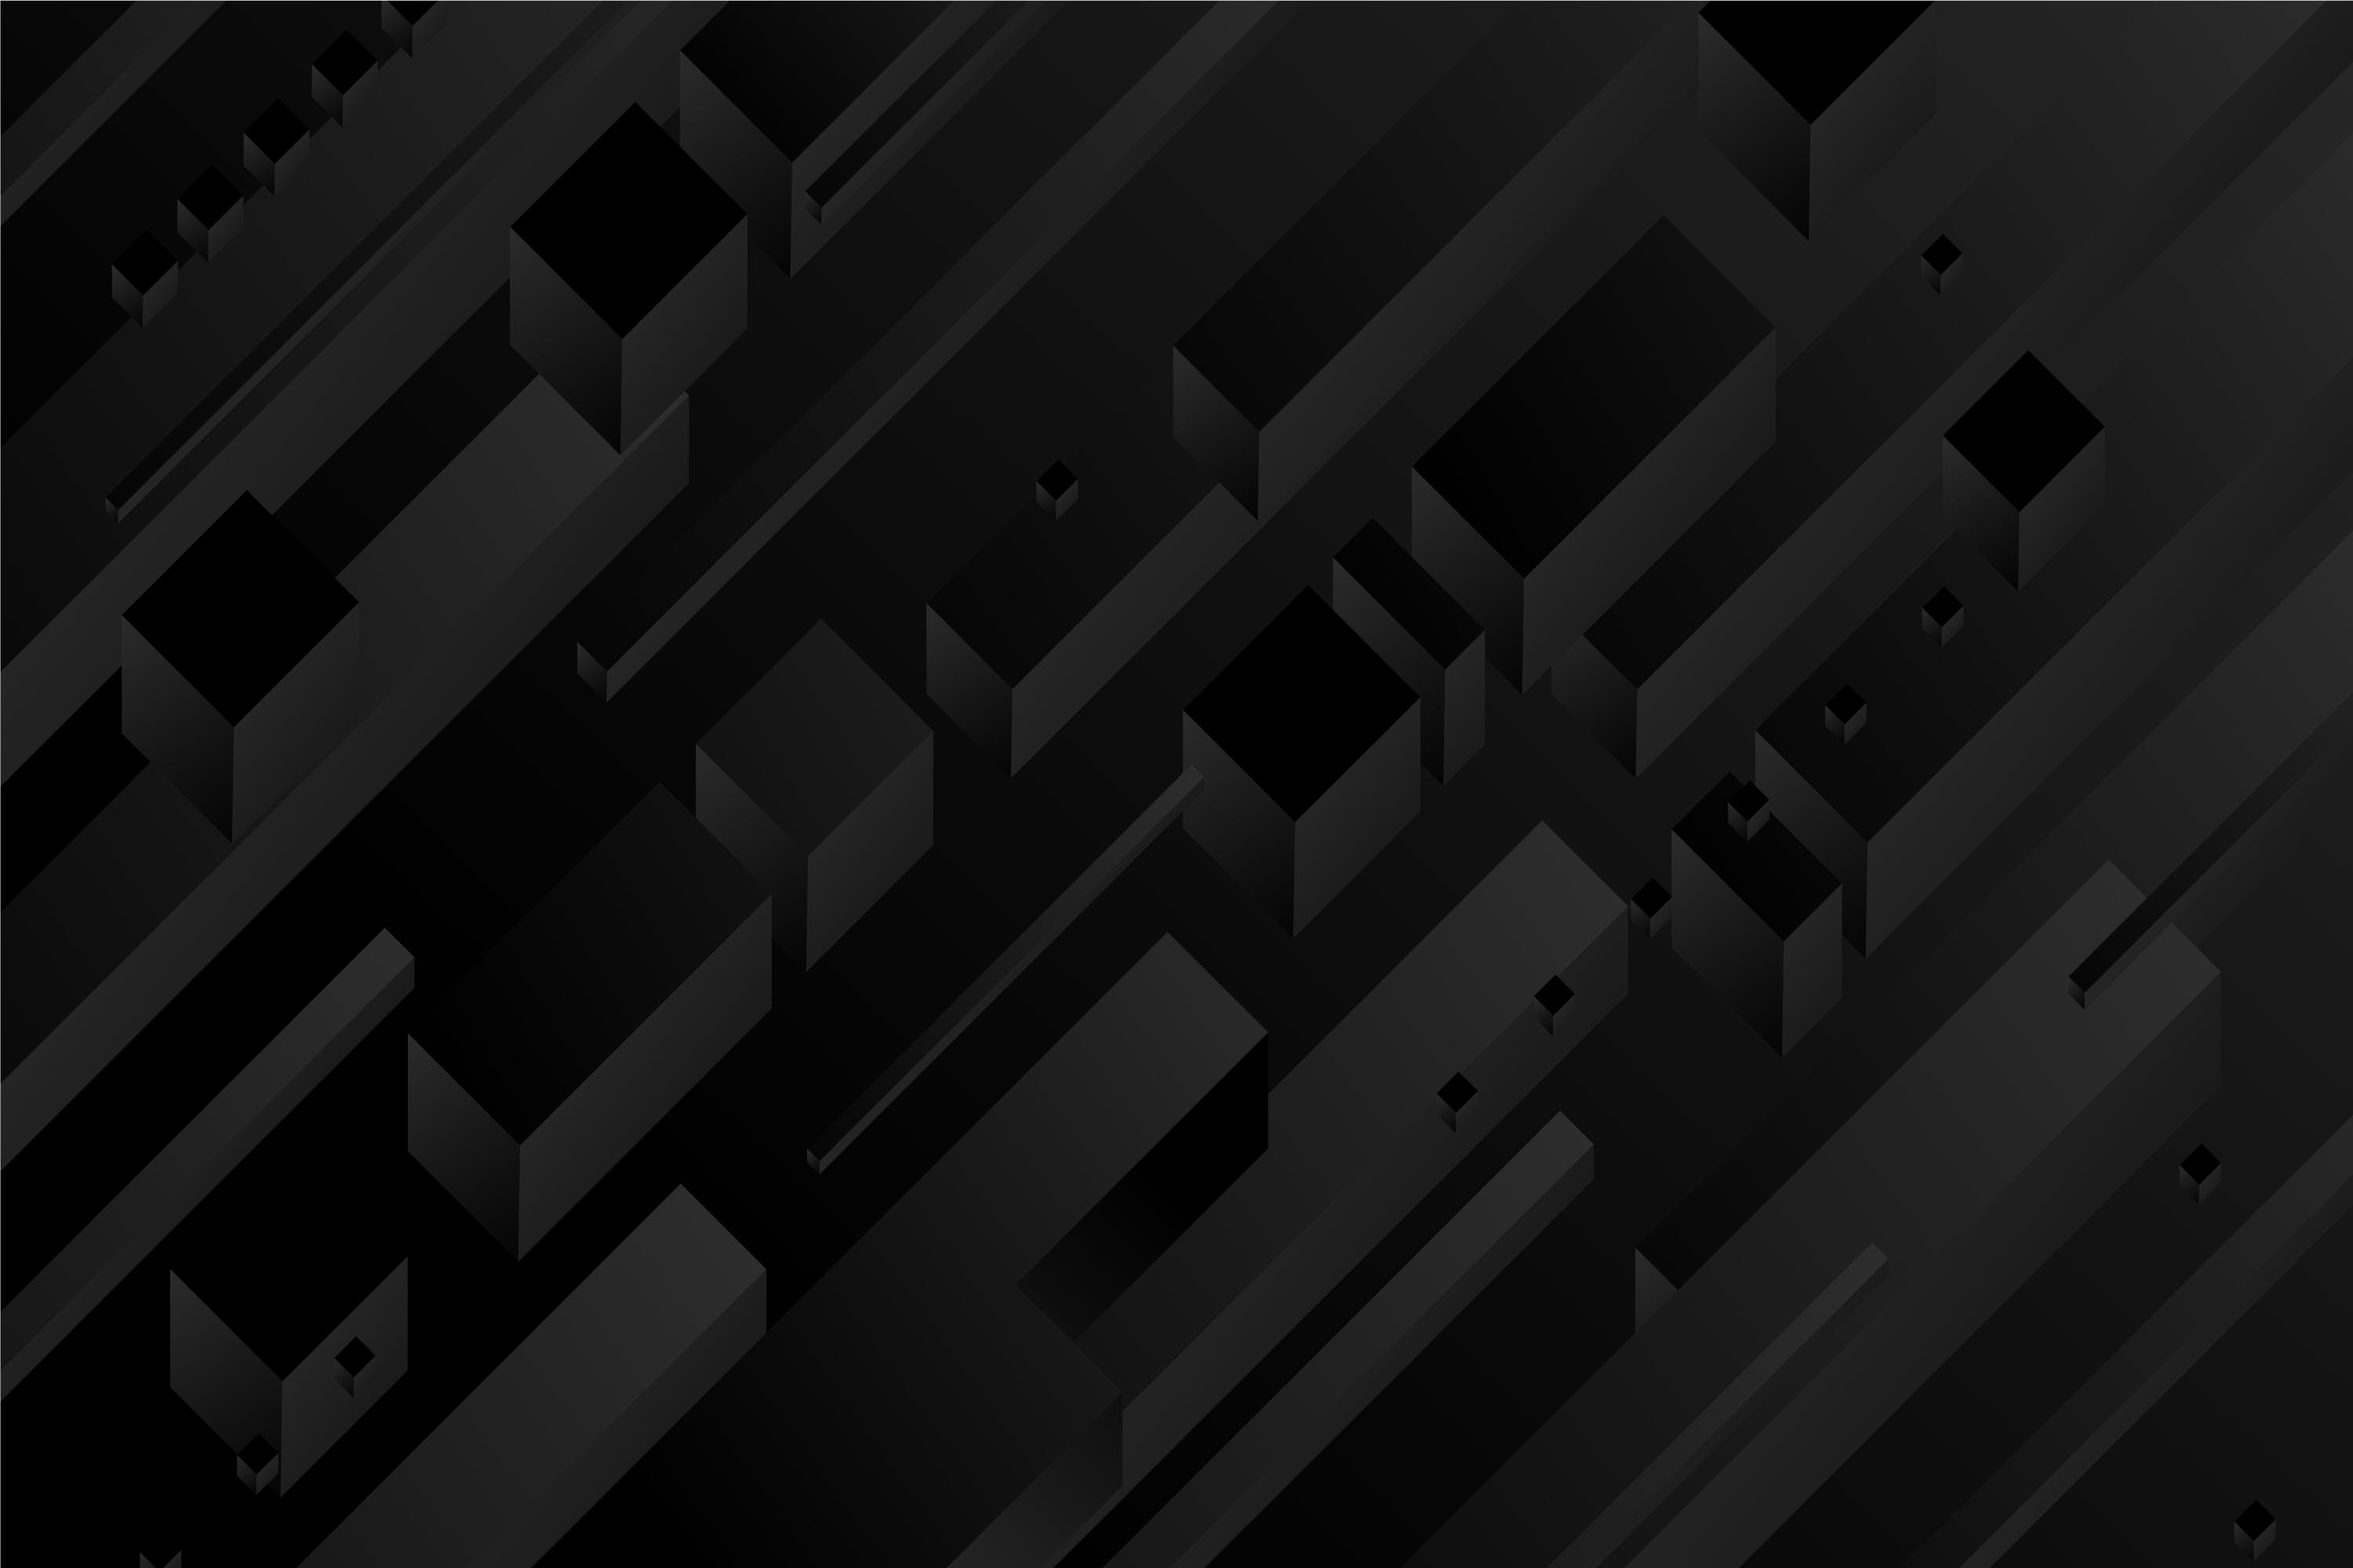
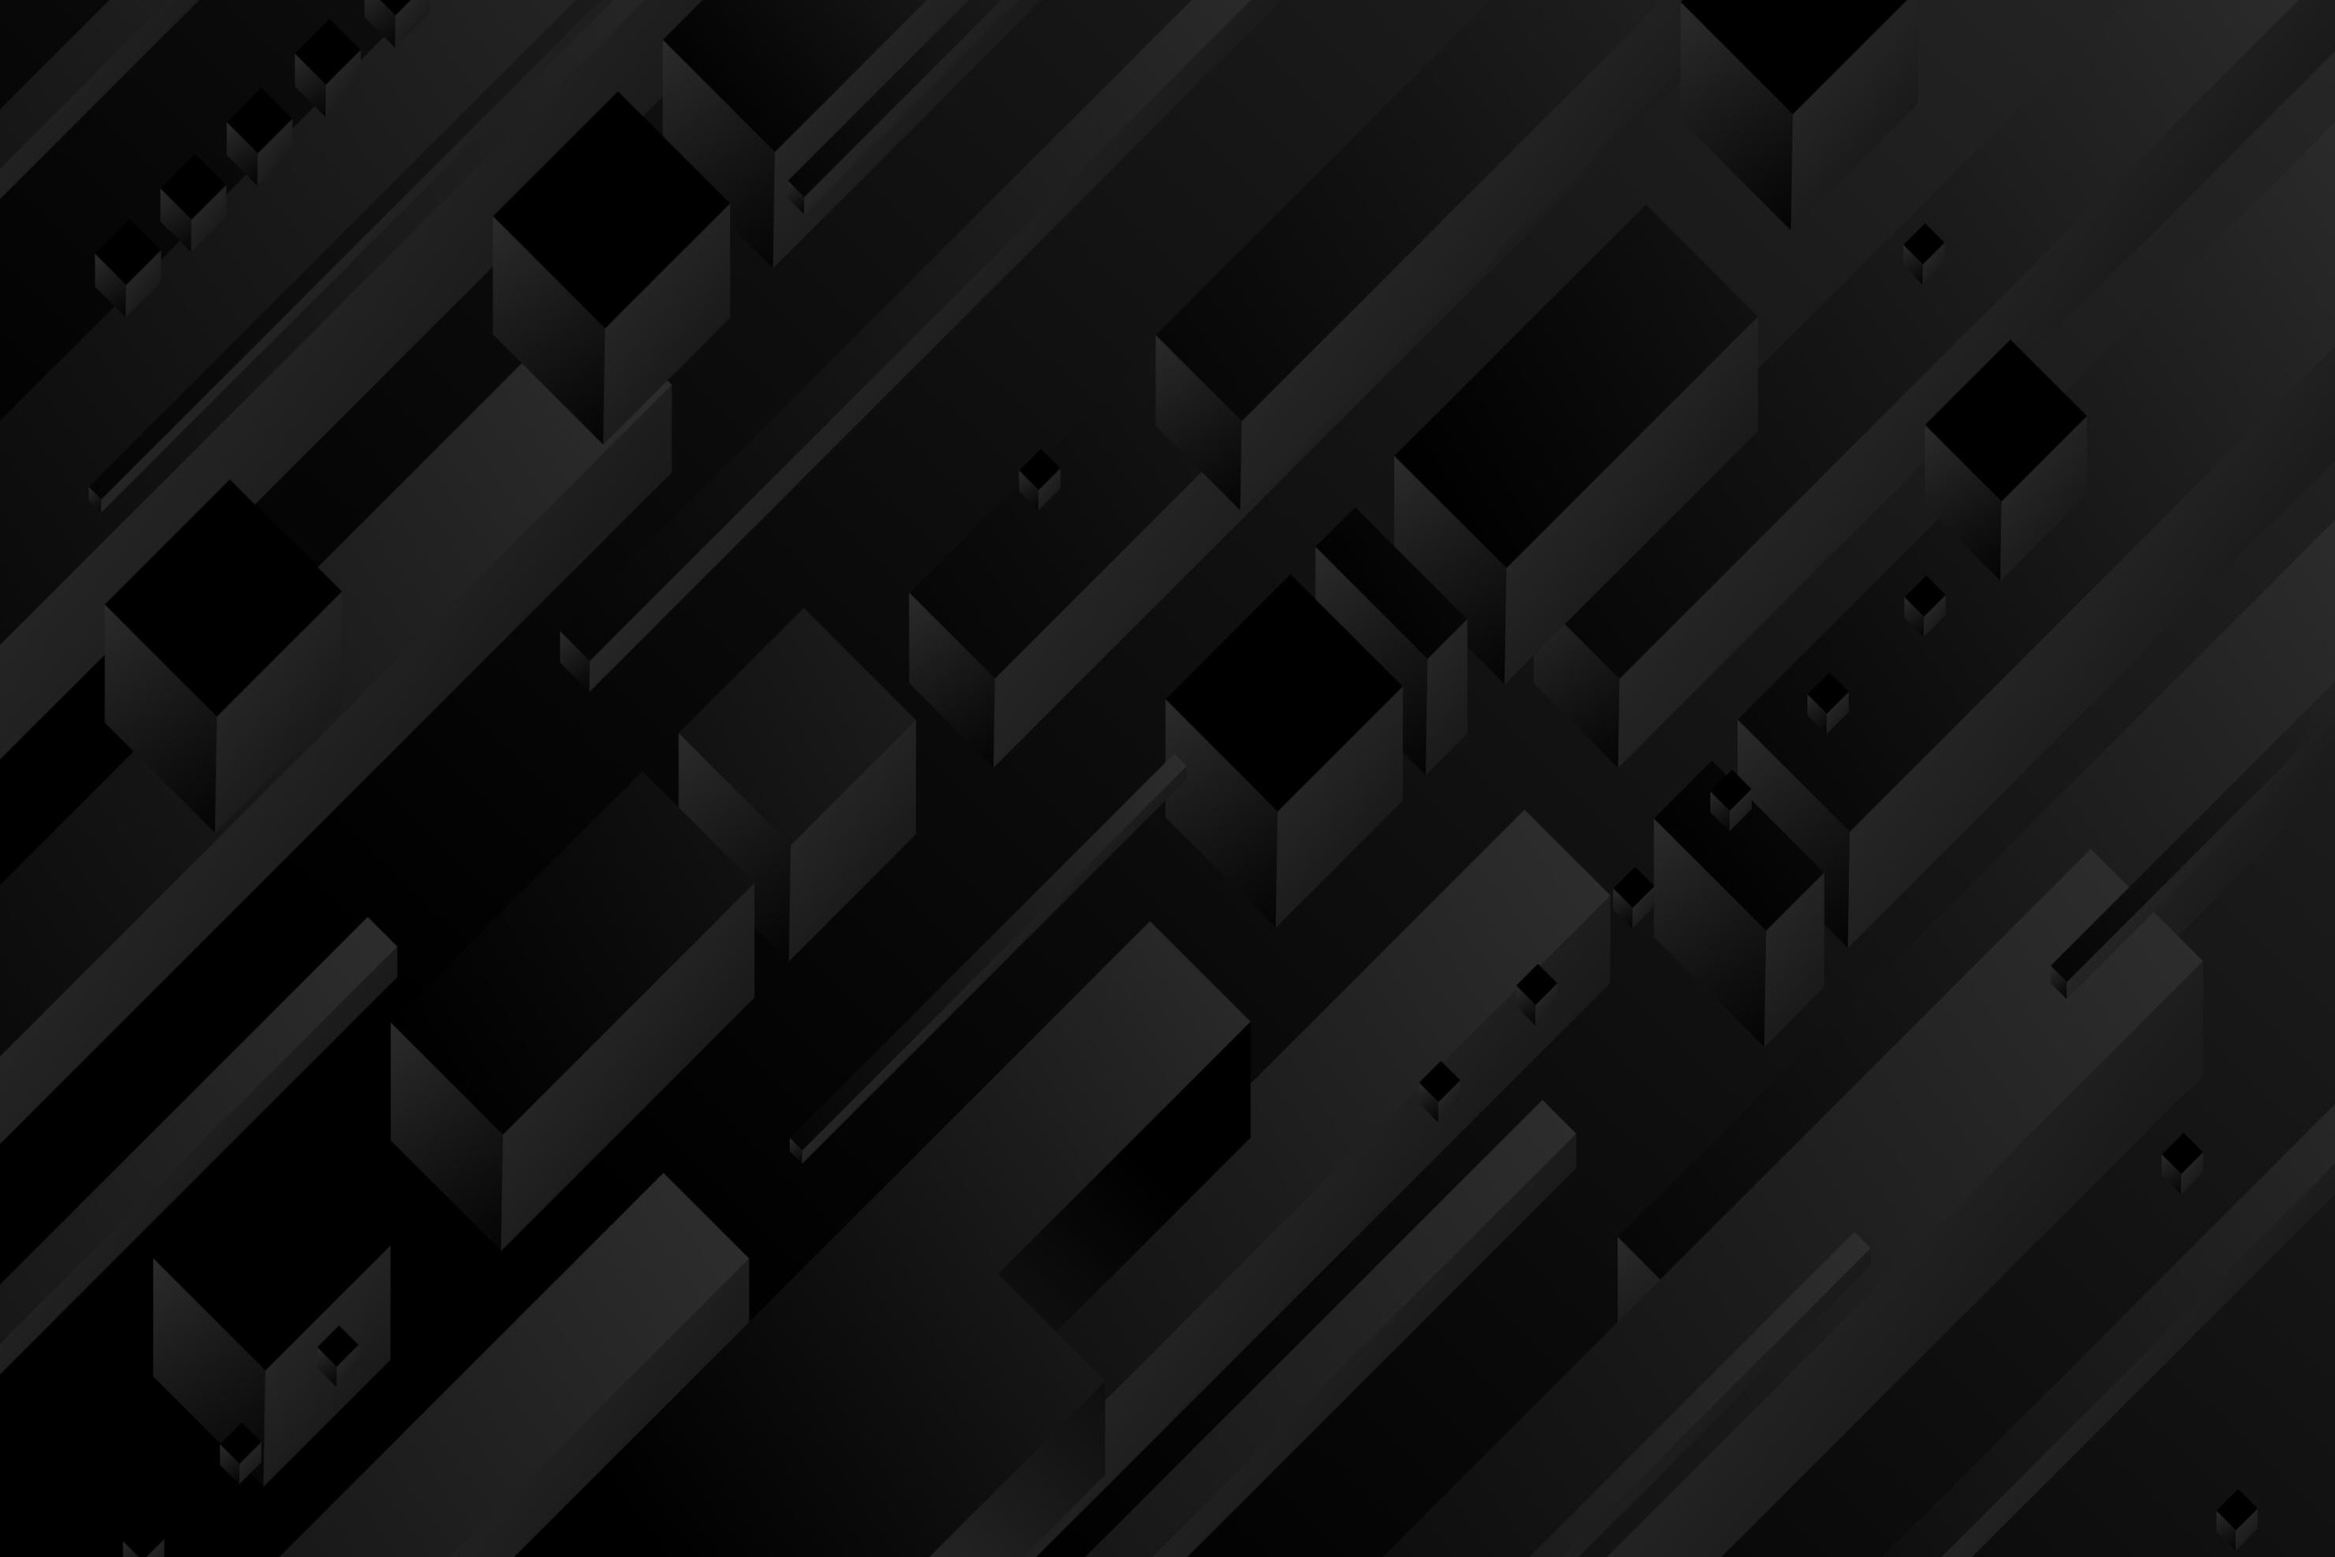
Update background images and SCSS theme variables

diff --git a/src/styles/_variables.scss b/src/styles/_variables.scss
@@ -98,7 +98,7 @@ $light: $text-light;
     --theme-white: #{$text-light};
 
     // Backgrounds
-    --theme-bg: url('/images/css/bg-dark.jpg');
+    --theme-bg: url('/images/css/bg-dark.jpg'); // CHANGE IMAGE HERE FOR DARK THEME
     --theme-bg-color: #{$dark-bg-primary};
     --theme-section-background: #{$dark-bg-secondary};
     --theme-section-background-opacity: rgba(17, 17, 17, 0.95);
@@ -153,7 +153,7 @@ $light: $text-light;
     --theme-white: #{$light-bg-primary};
 
     // Backgrounds
-    --theme-bg: url('/images/css/bg-light.png');
+    --theme-bg: url('/images/css/bg-light.jpg'); // CHANGE IMAGE HERE FOR LIGHT THEME
     --theme-bg-color: #{$light-bg-primary};
     --theme-section-background: #{$light-bg-secondary};
     --theme-section-background-opacity: rgba(249, 250, 251, 0.9);
@@ -185,8 +185,8 @@ $light: $text-light;
     background-repeat: no-repeat;
 }
 
-.bg-green {
-    background-image: url('/images/css/bg-green.png');
+.bg-light {
+    background-image: url('/images/css/bg-light.jpg');
     background-size: cover;
     background-position: center;
 }
